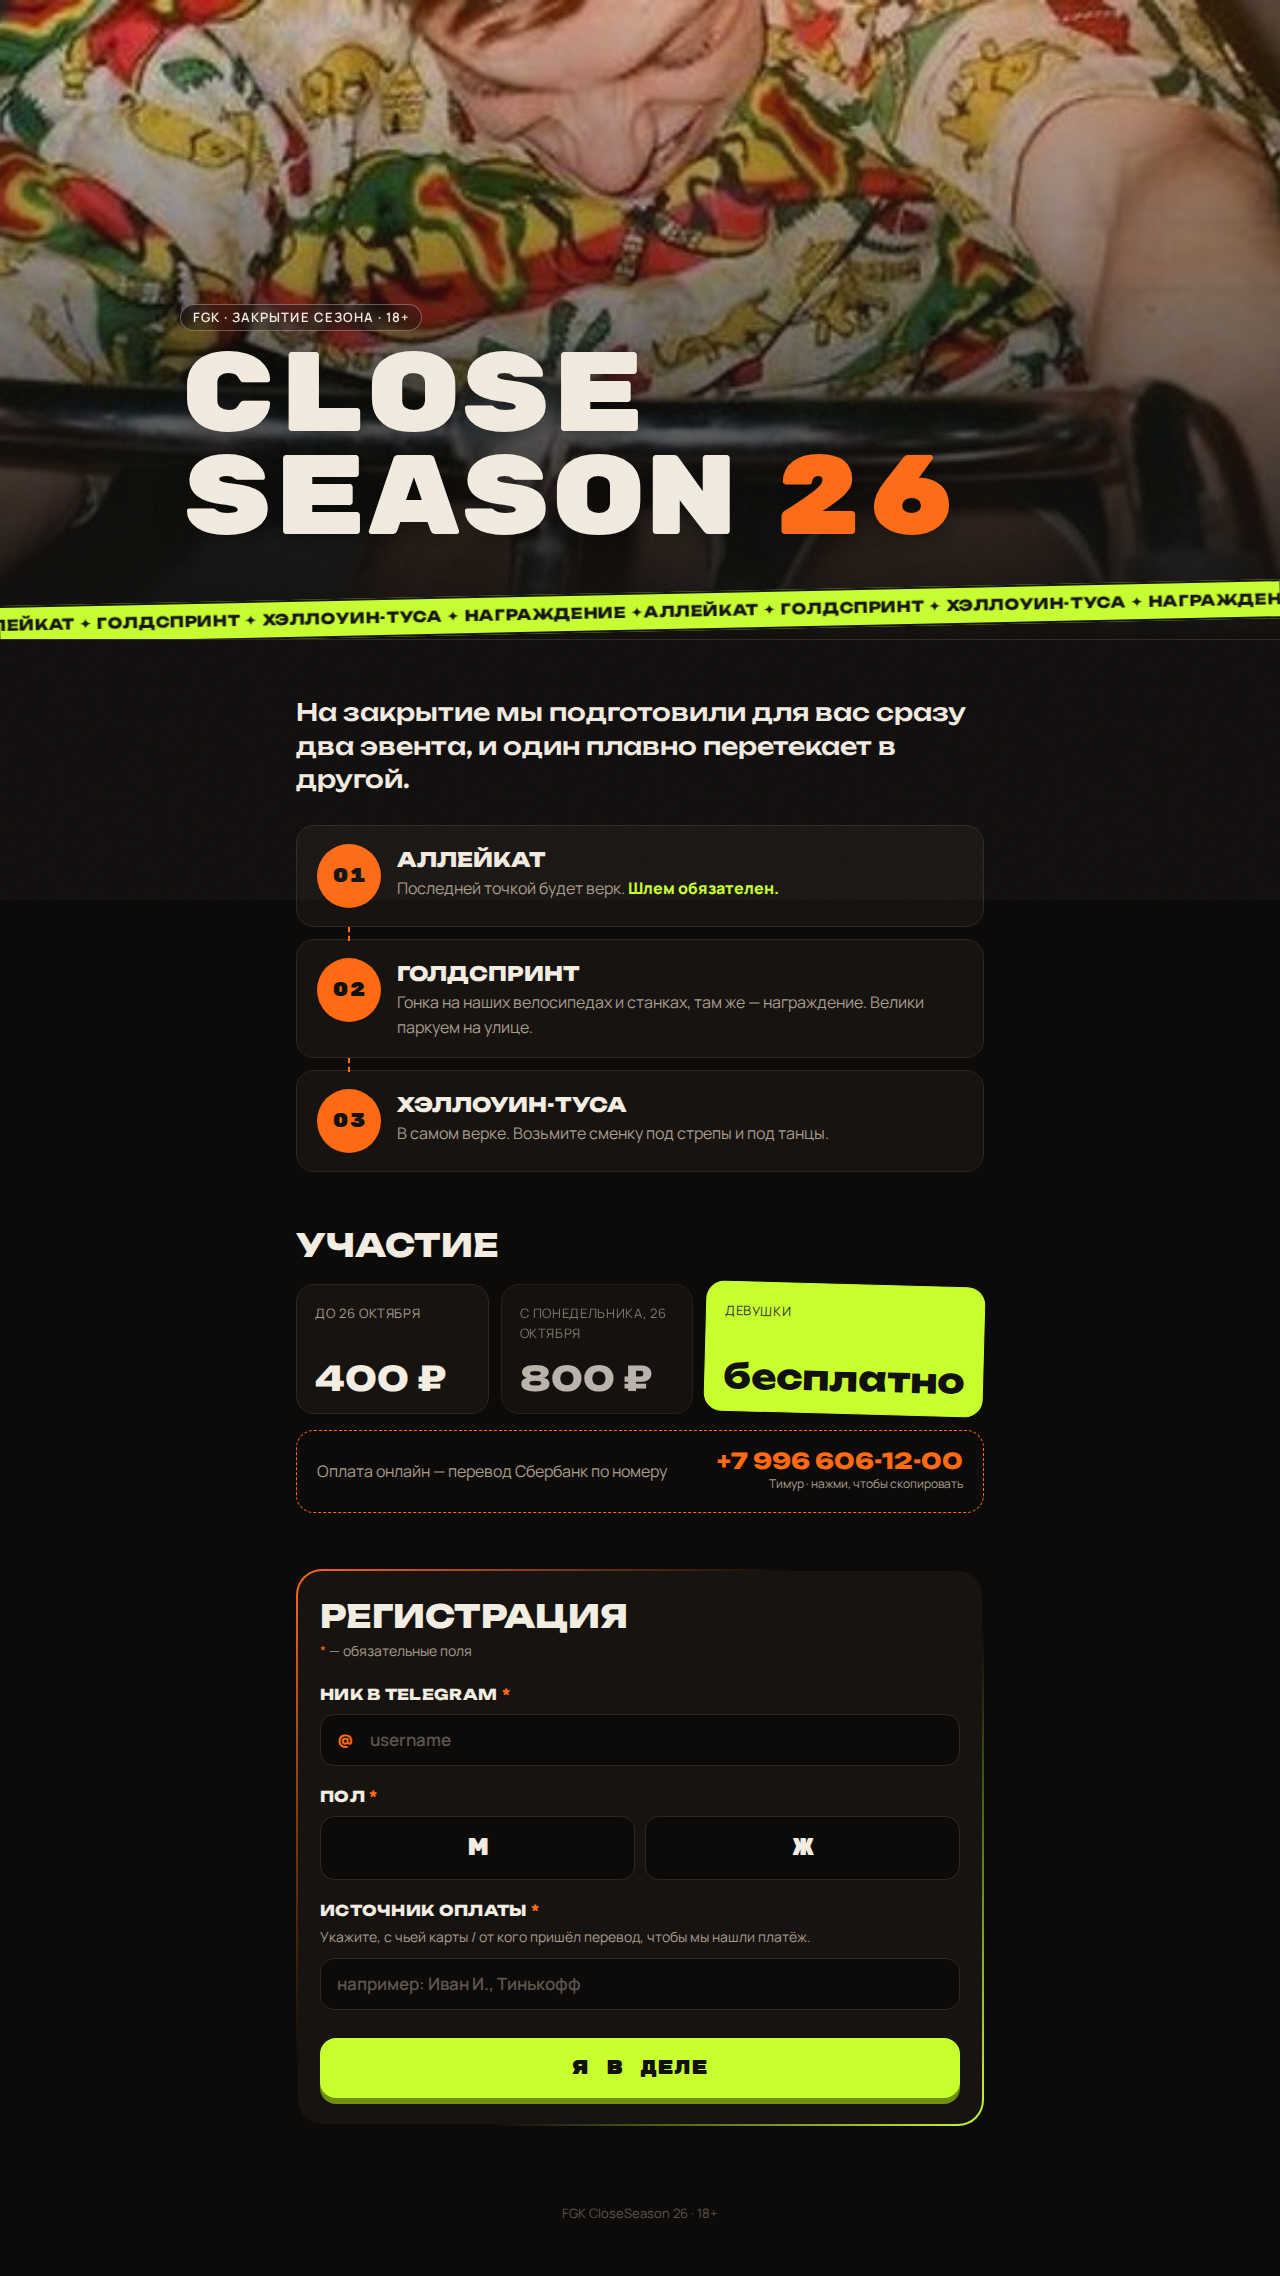
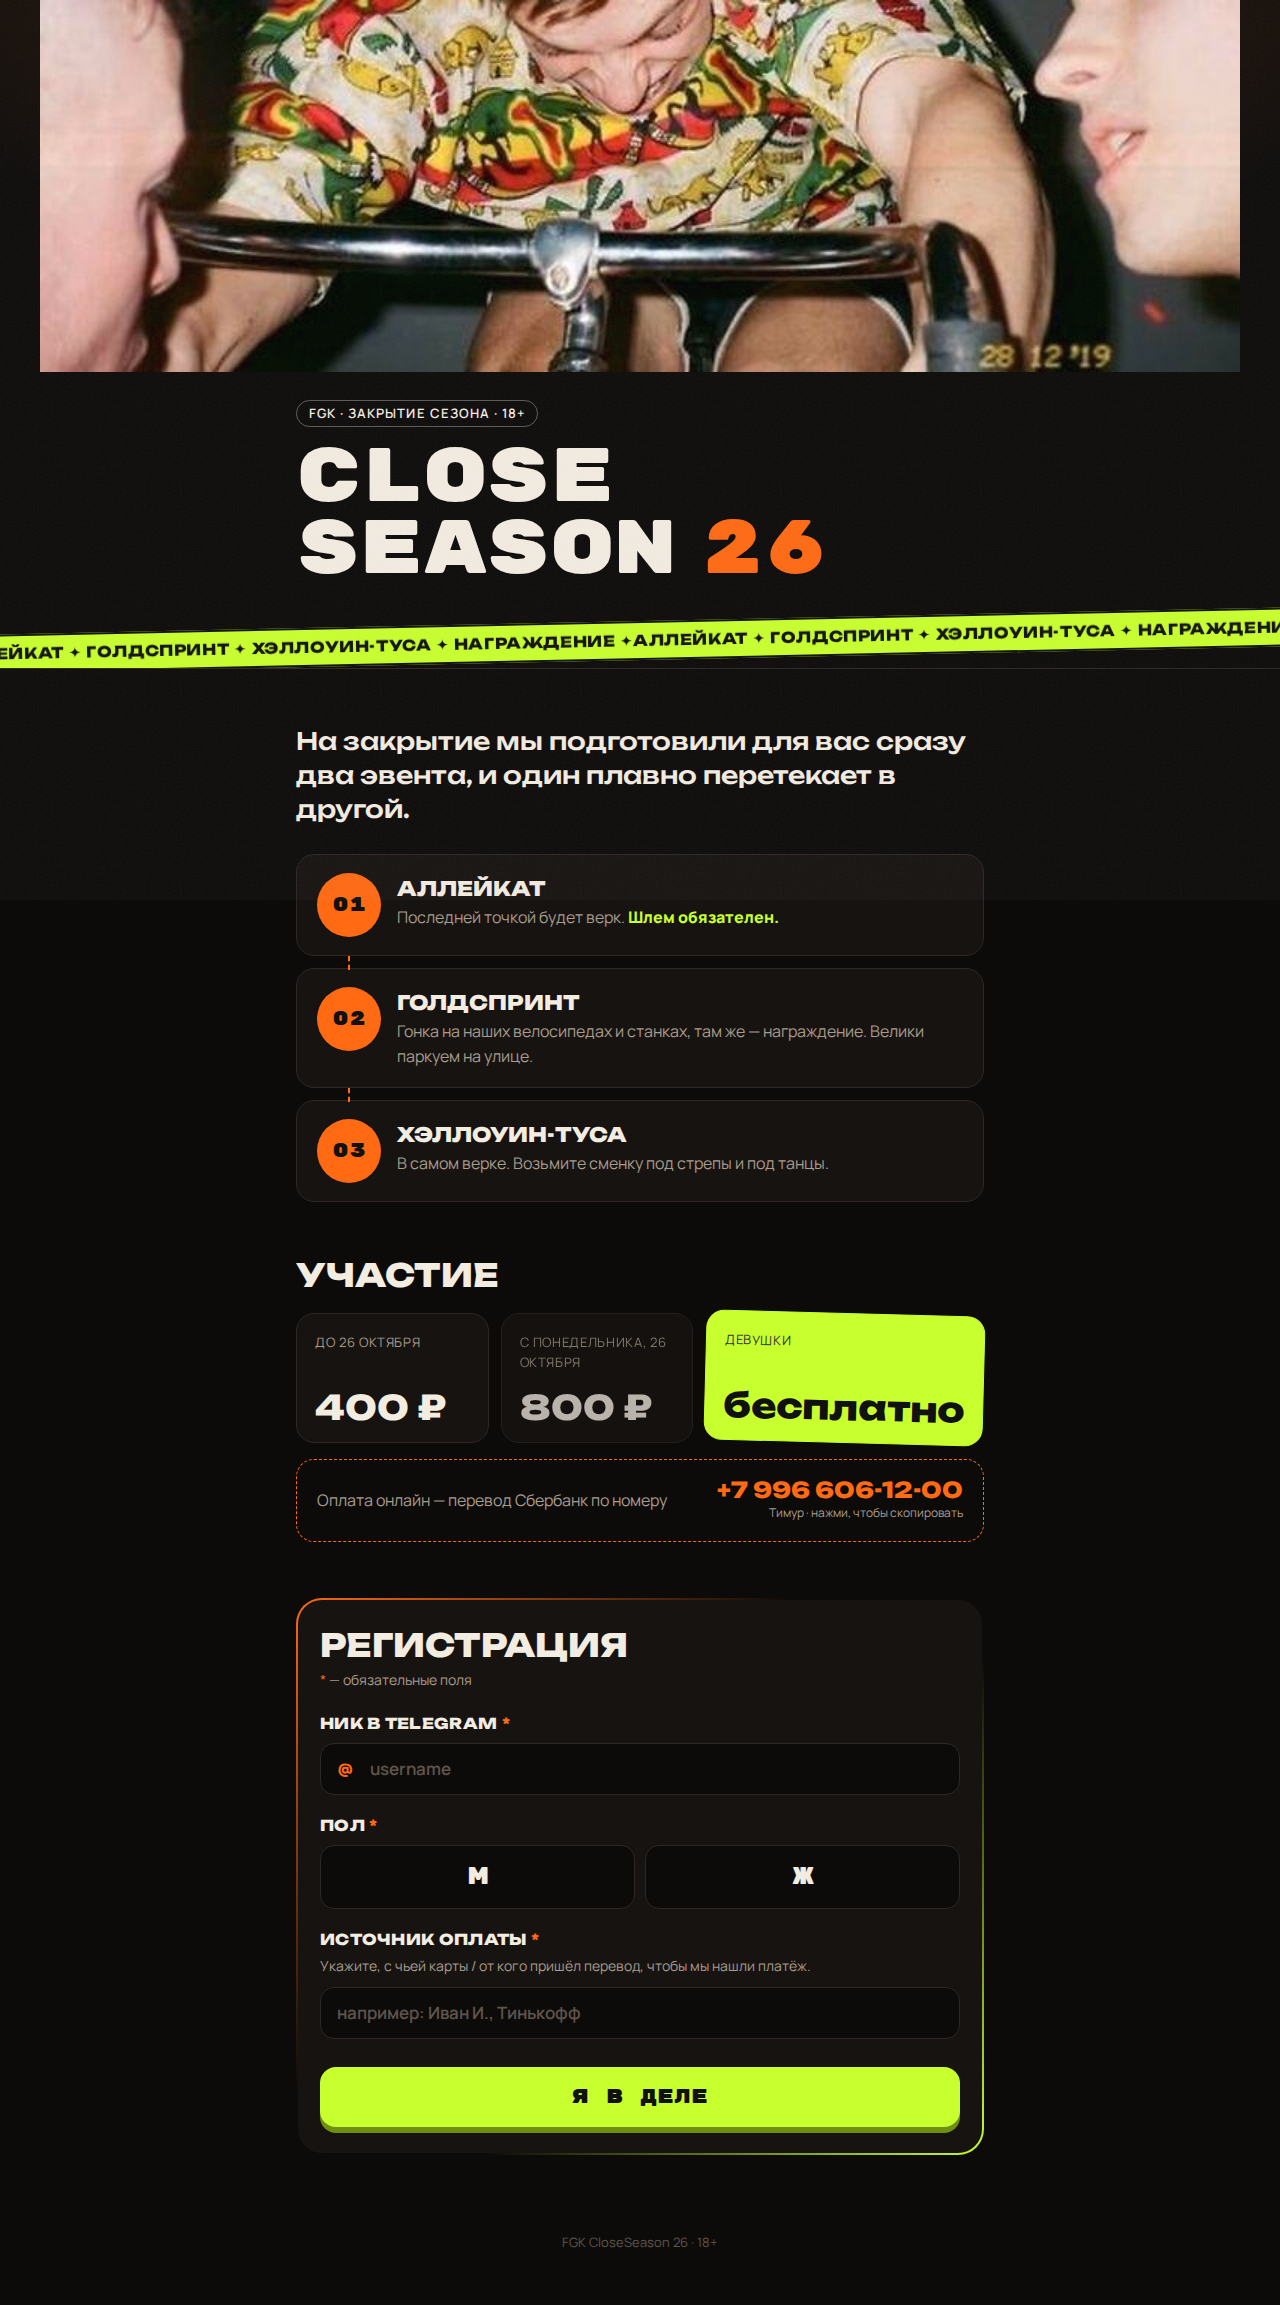
Обложка: фото целиком без обрезки, заголовок под кадром
Кадр важен весь, включая края и дату в правом нижнем углу,
поэтому убраны object-fit: cover и затемнение поверх фото.

Claude-Session: https://claude.ai/code/session_0122weFEyBkPzVmy7e3pz2TB

diff --git a/style.css b/style.css
@@ -35,28 +35,26 @@ h1, h2, h3 { margin: 0; }
 /* ---------- hero ---------- */
 .hero {
   position: relative;
-  min-height: min(78vh, 640px);
-  display: flex; align-items: flex-end;
+  padding-bottom: 8px;
   overflow: hidden;
   border-bottom: 1px solid var(--line);
+  background: radial-gradient(90% 60% at 50% 0%, rgba(255,106,19,.18), transparent 70%);
 }
-.hero__img {
-  position: absolute; inset: 0;
-  width: 100%; height: 100%;
-  object-fit: cover; object-position: center 40%;
-  filter: saturate(1.15) contrast(1.05);
+/* кадр целиком, без обрезки — важны и края, и дата в углу */
+.hero__photo {
+  margin: 0 auto;
+  max-width: 1200px;
 }
-.hero__overlay {
-  position: absolute; inset: 0;
-  background:
-    linear-gradient(180deg, rgba(13,11,10,.15) 0%, rgba(13,11,10,.55) 55%, var(--bg) 100%),
-    radial-gradient(120% 80% at 80% 0%, rgba(255,106,19,.25), transparent 60%);
+.hero__photo img {
+  width: 100%; height: auto;
+  aspect-ratio: 800 / 248;
+  filter: saturate(1.1) contrast(1.03);
 }
 .hero__content {
   position: relative;
-  width: 100%; max-width: 960px;
+  width: 100%; max-width: 720px;
   margin: 0 auto;
-  padding: 0 20px 88px;
+  padding: 28px 16px 36px;
 }
 .hero__kicker {
   display: inline-block;
@@ -66,14 +64,11 @@ h1, h2, h3 { margin: 0; }
   border-radius: 999px;
   font: 600 13px/1 var(--body);
   letter-spacing: .08em; text-transform: uppercase;
-  backdrop-filter: blur(6px);
-  background: rgba(13,11,10,.35);
 }
 .hero__title {
-  font: 400 clamp(44px, 11vw, 112px)/.92 var(--display);
+  font: 400 clamp(34px, 8.4vw, 76px)/.95 var(--display);
   text-transform: uppercase;
   letter-spacing: -.02em;
-  text-shadow: 0 4px 30px rgba(0,0,0,.5);
 }
 .hero__title span {
   color: var(--orange);
@@ -81,10 +76,10 @@ h1, h2, h3 { margin: 0; }
 }
 
 .ticker {
-  position: absolute; left: 0; right: 0; bottom: 0;
+  position: relative;
   background: var(--acid); color: #111;
-  transform: rotate(-1.2deg) translateY(6px);
-  transform-origin: left;
+  transform: rotate(-1.2deg);
+  margin: 0 -8px;
   overflow: hidden; white-space: nowrap;
   border-top: 2px solid #111; border-bottom: 2px solid #111;
 }
@@ -307,7 +302,7 @@ h1, h2, h3 { margin: 0; }
   .route__step { grid-template-columns: 48px 1fr; padding: 16px; }
   .route__num { width: 48px; height: 48px; font-size: 16px; }
   .route__step + .route__step::before { left: 39px; }
-  .hero__content { padding-bottom: 72px; }
+  .hero__content { padding: 22px 16px 28px; }
 }
 
 @media (prefers-reduced-motion: reduce) {

diff --git a/index.html b/index.html
@@ -15,11 +15,12 @@
   <div class="grain" aria-hidden="true"></div>
 
   <header class="hero">
-    <img class="hero__img" src="assets/hero.jpg" alt="Райдер склонился над рулём трекового велосипеда">
-    <div class="hero__overlay"></div>
+    <figure class="hero__photo">
+      <img src="assets/hero.jpg" width="800" height="248" alt="Трое у руля трекового велосипеда, на кадре дата 28 12 '19">
+    </figure>
     <div class="hero__content">
       <p class="hero__kicker">FGK · закрытие сезона · 18+</p>
-      <h1 class="hero__title">Close<br>Season<span>26</span></h1>
+      <h1 class="hero__title">Close Season<span>26</span></h1>
     </div>
     <div class="ticker" aria-hidden="true">
       <div class="ticker__track">
